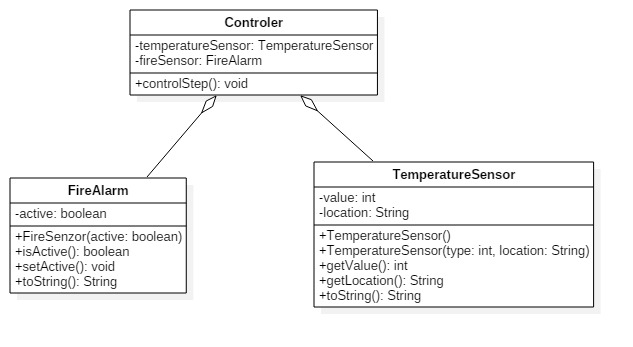
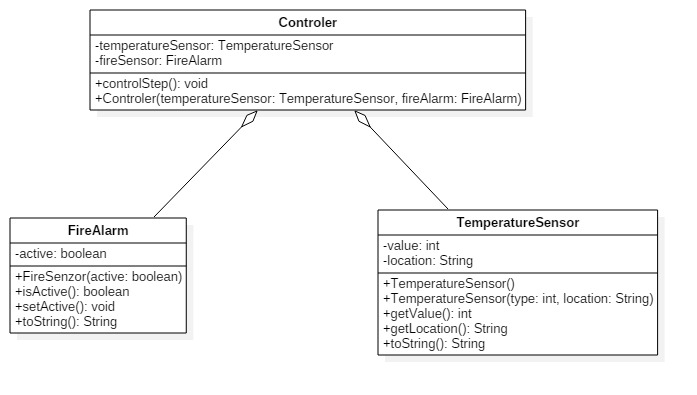
Fix uml diagrams small issues.

Changed region(s): [[0.1201, 0.0, 0.9605, 0.9222], [0.0, 0.4611, 0.3002, 0.8646], [0.2701, 0.4035, 0.3002, 0.4611]]

diff --git a/readme.MD b/readme.MD
@@ -1,5 +1,7 @@
 # Implement the following exercises
 
+Considering the diagrams bellow, implement the Java classes based on the UML class diagrams. 
+
 ## Exercise 1
 ![Exercise 1 image](docs/ex1.jpg)
 
